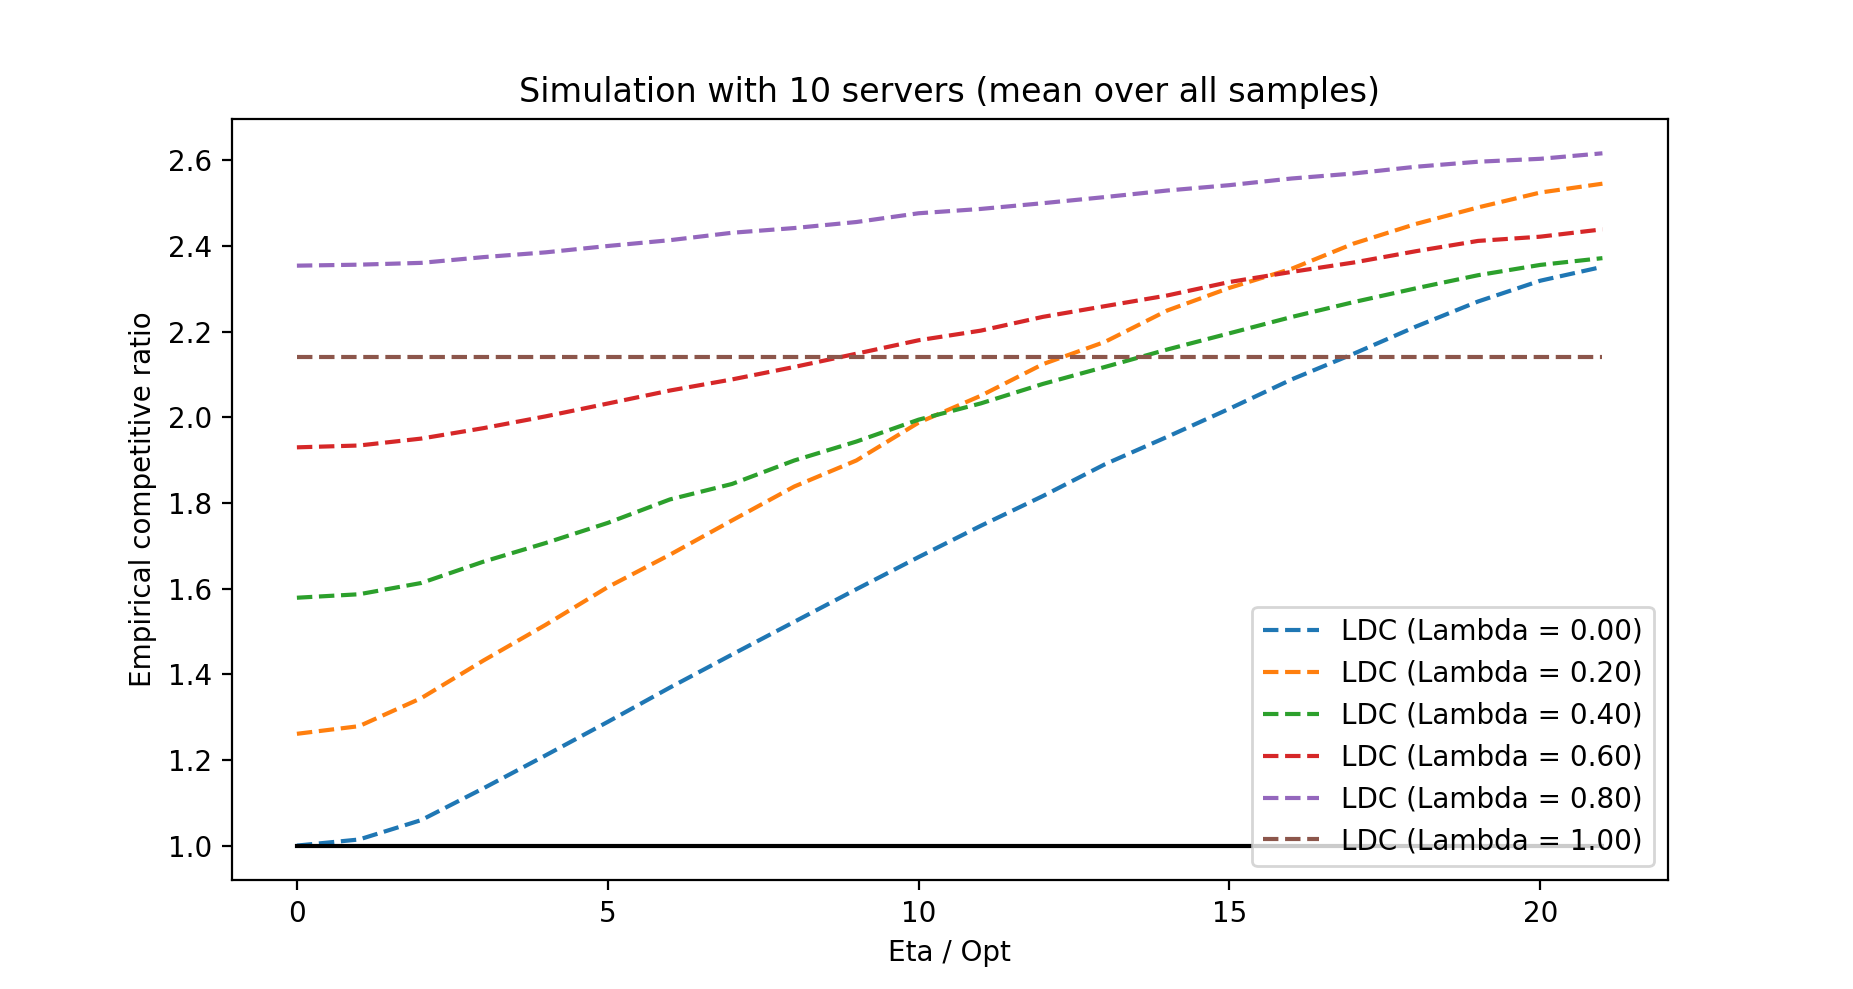
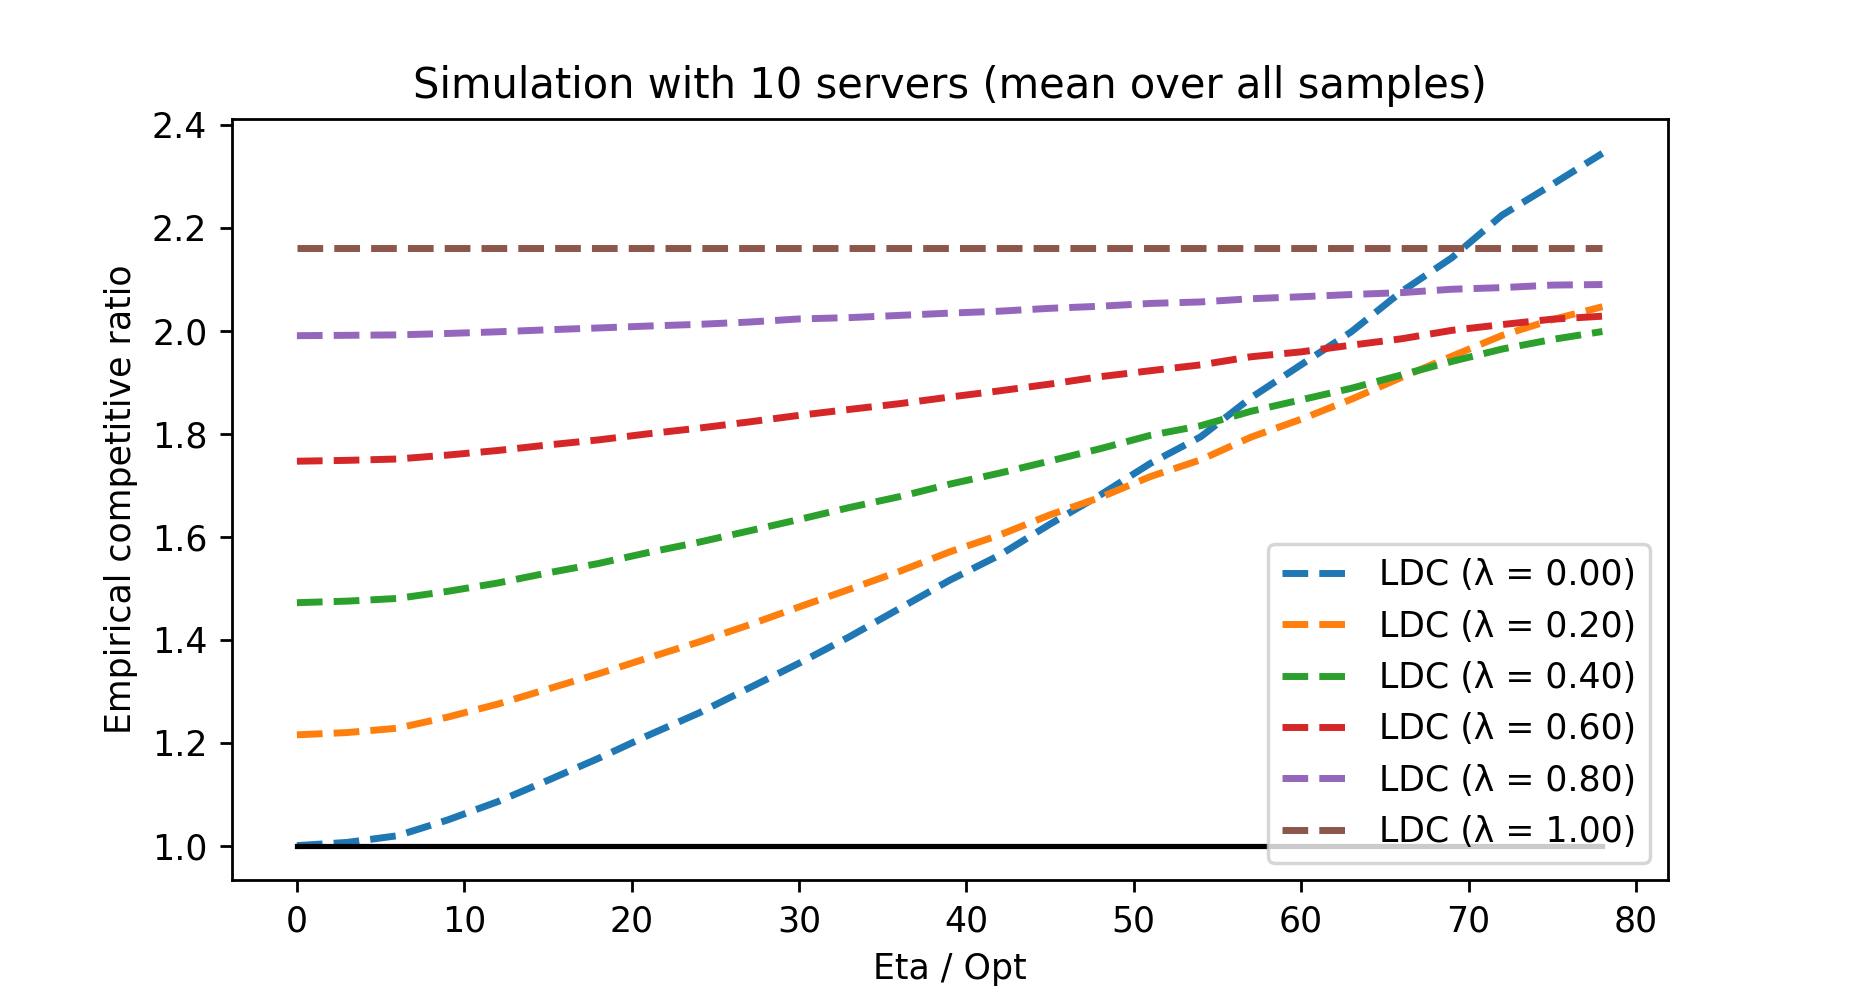
wip

diff --git a/src/pred.rs b/src/pred.rs
@@ -40,7 +40,7 @@ impl PredictionError {
     }
 }
 
-#[derive(Clone, Debug)]
+#[derive(Clone, Debug, Default)]
 pub struct Prediction(Vec<usize>);
 
 impl From<Vec<usize>> for Prediction {
@@ -64,37 +64,31 @@ impl IntoIterator for Prediction {
     }
 }
 
+impl<'a> IntoIterator for &'a Prediction {
+    type Item = &'a usize;
+    type IntoIter = std::slice::Iter<'a, usize>;
+
+    fn into_iter(self) -> Self::IntoIter {
+        self.0.iter()
+    }
+}
+
+impl std::ops::Index<usize> for Prediction {
+    type Output = usize;
+    fn index(&self, idx: usize) -> &Self::Output {
+        &self.0[idx]
+    }
+}
+
 impl Prediction {
     fn to_schedule(&self, instance: &Instance) -> Schedule {
         let mut schedule = Schedule::from(instance.initial_positions().clone());
 
         for (idx, req) in instance.requests().iter().enumerate() {
-            schedule.append_move(self.0[idx], req.t);
+            schedule.append_move(self[idx], req.t);
         }
+        //schedule.normalize();
         schedule
-
-        // for (idx, req) in instance.requests().iter().enumerate() {
-        //     let current = schedule.last().unwrap();
-        //     let (left, right) = current.adjacent_servers(req);
-        //     match (left, right) {
-        //         (Some(i), Some(j)) => {
-        //             if i == j - 1 {
-        //                 let predicted = self.0[idx];
-        //                 if predicted <= i {
-        //                     schedule.append_move(i, req.t);
-        //                 } else {
-        //                     schedule.append_move(j, req.t);
-        //                 }
-        //             } else {
-        //                 schedule.append_move(i, req.t);
-        //             }
-        //         }
-        //         (Some(i), None) | (None, Some(i)) => {
-        //             schedule.append_move(i, req.t);
-        //         }
-        //         (None, None) => panic!("Should not happen"),
-        //     }
-        // }
     }
 
     pub fn get_eta(&self, solution: &Schedule, instance: &Instance) -> f64 {
@@ -103,25 +97,26 @@ impl Prediction {
     }
 
     pub fn get_predicted_server(&self, request_index: usize) -> usize {
-        return self.0[request_index];
+        return self[request_index];
     }
 }
 
-// TODO
-pub fn to_prediction(schedule: &Schedule, instance: &Instance) -> Prediction {
-    schedule
+impl Schedule {
+    pub fn to_prediction(&self, instance: &Instance) -> Prediction {
+        self
         .into_iter()
         .skip(1)
         .enumerate()
         .map(|(idx, config)| {
             config
-                .into_iter()
-                .enumerate()
-                .find(|(_, &server)| server == instance[idx].t)
-                .map(|(i, _)| i)
-                .unwrap_or_else(|| panic!("Cannot find predicted server. Please investigate!\nSolution={:?} Instance={}", schedule, instance))
+            .into_iter()
+            .enumerate()
+            .find(|(_, &server)| server == instance[idx].t)
+            .map(|(i, _)| i)
+            .unwrap_or_else(|| panic!("Cannot find predicted server. Please investigate!\nSolution={:?} Instance={}", self, instance))
         })
         .collect::<Prediction>()
+    }
 }
 
 /// Lower and upper inclusive
@@ -142,8 +137,8 @@ pub fn generate_predictions(
     let mut step_to_predictions: Vec<Vec<Prediction>> =
         vec![vec![]; config.number_of_predictions as usize];
 
-    let perfect_prediction = to_prediction(solution, instance);
-    let ref_perfect_prediction = &to_prediction(solution, instance);
+    let perfect_prediction = solution.to_prediction(instance);
+    let ref_perfect_prediction = &solution.to_prediction(instance);
     step_to_predictions[0].push(perfect_prediction);
 
     let mut rng = rand::thread_rng();
@@ -160,24 +155,15 @@ pub fn generate_predictions(
                 if correct_preds[i] {
                     pred_vec.push(server);
                 } else {
-                    if rand::random::<bool>() {
-                        // left
-                        if server > 0 {
-                            //left
-                            pred_vec.push(server - 1);
+                    let p = predict(0, k - 1);
+                    if p == server {
+                        if p == 0 {
+                            pred_vec.push(p + 1);
                         } else {
-                            //right
-                            pred_vec.push(server + 1);
+                            pred_vec.push(p - 1);
                         }
                     } else {
-                        // right
-                        if server < k - 1 {
-                            // right
-                            pred_vec.push(server + 1);
-                        } else {
-                            // left
-                            pred_vec.push(server - 1);
-                        }
+                        pred_vec.push(p);
                     }
                 }
             }

diff --git a/scripts/plot.py b/scripts/plot.py
@@ -60,7 +60,7 @@ def plot_lambda(df, eta_res, args, det_alg, pred_alg):
 
     for label, l in list(grouped_data):
         grouped_data[(label, l)].plot(ax=ax, linewidth=2,
-                                      style='--', label=f"{pred_alg} (Eta/Opt ={l:1.2f})", legend=True)
+                                      style='--', label=f"{pred_alg} (η/Opt ={l:1.2f})", legend=True)
 
     plt.plot((0, 1), (1, 1), 'black')
 
@@ -101,7 +101,7 @@ def plot_eta(df, eta_res, args, pred_alg):
 
     for label, l in list(grouped_data):
         grouped_data[(label, l)].plot(
-            style='--', linewidth=2, label=f"{pred_alg} (Lambda = {l:1.2f})", legend=True)
+            style='--', linewidth=2, label=f"{pred_alg} (λ = {l:1.2f})", legend=True)
 
     plt.plot((0, max_bin), (1, 1), 'black')
     plt.xlabel('Eta / Opt')

diff --git a/src/pred_generator.rs b/src/pred_generator.rs
@@ -13,7 +13,7 @@ pub struct PredictionConfig {
     #[structopt(short = "b", long = "preds_bin_size", default_value = "0.25")]
     pub step_size: f32,
 
-    #[structopt(long = "preds_samples_per_round", default_value = "100")]
+    #[structopt(short = "s", long = "preds_samples_per_round", default_value = "200")]
     pub number_of_samples_per_round: usize,
 
     #[structopt(long = "max_preds_per_bin", default_value = "5")]

diff --git a/src/instance_generator.rs b/src/instance_generator.rs
@@ -20,7 +20,7 @@ pub struct InstanceConfig {
 
     #[structopt(long = "min", default_value = "0")]
     pub min_value: i32,
-    #[structopt(long = "max", default_value = "2000")]
+    #[structopt(long = "max", default_value = "4000")]
     pub max_value: i32,
 }
 
